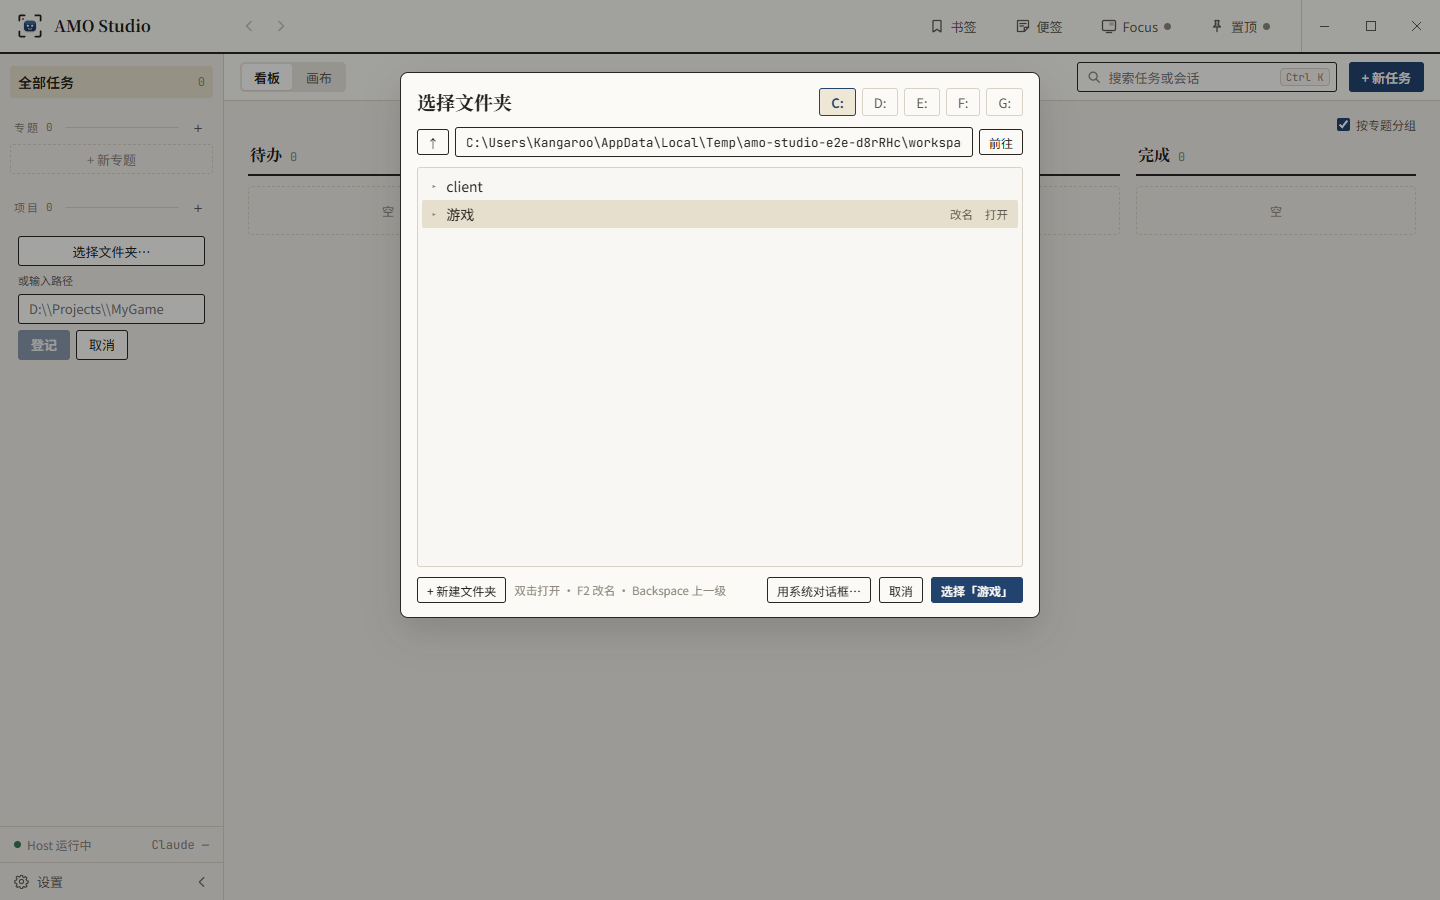
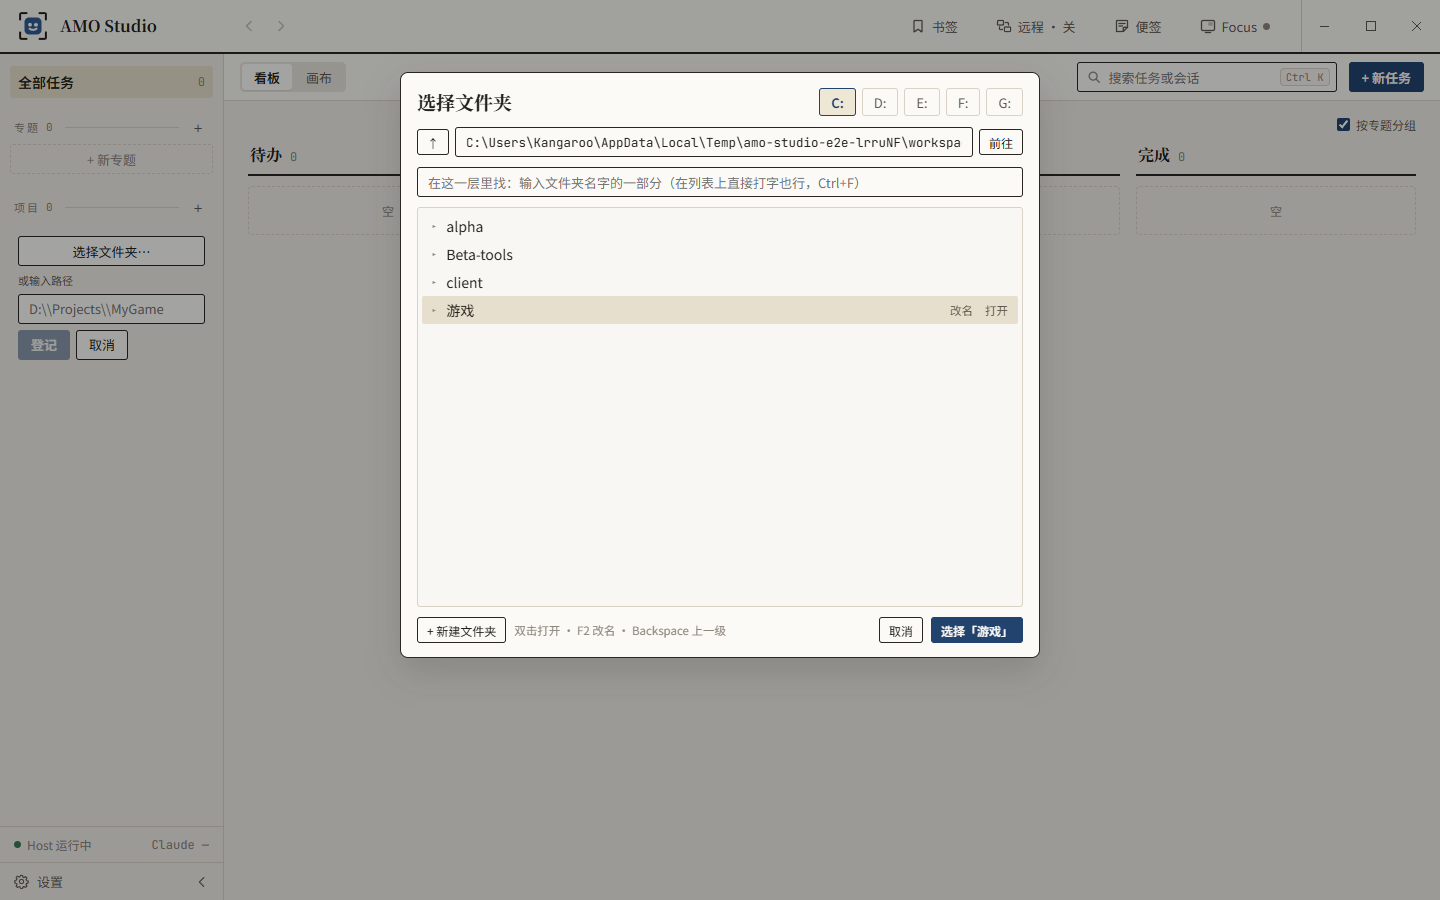
feat(folders): 选择文件夹 finds a folder in the level shown by a part of its name (the user, 2026-11-06: 选择文件夹的窗口加个搜索功能，可以输入文件夹关键词快速找到文件夹，只做当前选中位置的同层级检索就可以)
A 在这一层里找 box under the path: the list keeps the folders of the folder shown whose name holds what is typed (any case), the matched part marked, with "n / total" beside the box; the highlight goes to the first match when the highlighted one drops out, so Enter opens it and ↑ ↓ move within the matches from the box as from the list. Nothing below the level is searched (an empty result says so). Typing a letter on the list, or Ctrl+F, goes to the box; going to another folder or + 新建文件夹 clears it; Esc clears it first and closes the picker only the next time. The hint for typing is in the box's placeholder: in the footer it pushed 选择「…」 onto a second line.

Checked: npm run typecheck; e2e newtask.spec.ts (9 passed; the 默认路径 test now also: a letter on the list goes to the box, 2 / 4, case-insensitive narrowing to Beta-tools marked "tool" and selected, a folder below (client/tools-inner) not found, Enter opens it and clears the box, an empty result's message, Esc clears and keeps the picker open); screenshots studio/folder-picker-search.png and stage-16/S16-A-folder-picker.png looked at

diff --git a/studio/packages/ui/src/folders/FolderPicker.tsx b/studio/packages/ui/src/folders/FolderPicker.tsx
@@ -41,6 +41,20 @@ export function pickDirectory(start?: string | null): Promise<string | null> {
 
 type Edit = { kind: "new"; text: string } | { kind: "rename"; name: string; text: string };
 
+/** A folder's name with the part 在这一层里找 matched marked. */
+function Marked({ name, query }: { name: string; query: string }) {
+  const q = query.trim().toLowerCase();
+  const at = q ? name.toLowerCase().indexOf(q) : -1;
+  if (at < 0) return <>{name}</>;
+  return (
+    <>
+      {name.slice(0, at)}
+      <mark className="folder-match">{name.slice(at, at + q.length)}</mark>
+      {name.slice(at + q.length)}
+    </>
+  );
+}
+
 function unwrap<T>(r: FolderResult<T>): T {
   if (!r.ok) throw new Error(r.error);
   return r.value;
@@ -55,8 +69,12 @@ export function FolderPicker({ start, onDone }: { start: string | null; onDone(p
   const [error, setError] = useState("");
   const [busy, setBusy] = useState(false);
   const [edit, setEdit] = useState<Edit | null>(null);
+  // 在这一层里找 (2026-11-06; the user: 输入文件夹关键词快速找到文件夹，只做当前选中位置的同层级检索): narrows the folders of the
+  // folder shown, by a part of their name, any case; nothing below it is searched. Going to another folder clears it.
+  const [query, setQuery] = useState("");
   const list = useRef<HTMLDivElement>(null);
   const editBox = useRef<HTMLInputElement>(null);
+  const searchBox = useRef<HTMLInputElement>(null);
 
   /** Shows `path`; the folder named `select` in it highlighted. Keeps what was shown when it cannot be read. */
   async function go(path: string, select: string | null = null): Promise<boolean> {
@@ -68,6 +86,7 @@ export function FolderPicker({ start, onDone }: { start: string | null; onDone(p
       setSelected(select);
       setEdit(null);
       setError("");
+      setQuery("");
       return true;
     } catch (err) {
       setError(err instanceof Error ? err.message : String(err));
@@ -105,16 +124,31 @@ export function FolderPicker({ start, onDone }: { start: string | null; onDone(p
   }, [selected]);
 
   const folders = listing?.folders ?? [];
+  const matching = (text: string) => {
+    const q = text.trim().toLowerCase();
+    return q ? folders.filter((f) => f.toLowerCase().includes(q)) : folders;
+  };
+  /** The folders shown: those whose name holds what is typed in 在这一层里找. */
+  const shown = matching(query);
   /** Highlights a folder; a failed 前往 is forgotten then. */
   const select = (name: string) => {
     setSelected(name);
     setError("");
     if (listing) setPathText(listing.path);
   };
+  /** Narrows the list; the highlight goes to the first match when the highlighted folder is no longer shown. */
+  const search = (text: string) => {
+    setQuery(text);
+    const m = matching(text);
+    if (selected && m.includes(selected)) return;
+    if (m[0]) select(m[0]);
+    else setSelected(null);
+  };
   const chosen = listing ? (selected ? inside(listing.path, selected) : listing.path) : null;
 
   function startNew() {
     if (!listing) return;
+    setQuery("");
     let text = "新建文件夹";
     for (let n = 2; folders.some((f) => f.toLowerCase() === text.toLowerCase()); n++) text = `新建文件夹 (${n})`;
     setEdit({ kind: "new", text });
@@ -140,17 +174,33 @@ export function FolderPicker({ start, onDone }: { start: string | null; onDone(p
     list.current?.focus();
   }
 
-  function onListKey(e: React.KeyboardEvent) {
-    if (edit || !listing) return;
-    const i = selected ? folders.indexOf(selected) : -1;
+  /** ↑ ↓ and Enter, from the list or from 在这一层里找. True when it was one of them. */
+  function moveKey(e: React.KeyboardEvent): boolean {
+    if (!listing) return false;
     if (e.key === "ArrowDown" || e.key === "ArrowUp") {
       e.preventDefault();
-      if (!folders.length) return;
-      const next = e.key === "ArrowDown" ? Math.min(i + 1, folders.length - 1) : Math.max(i - 1, 0);
-      select(folders[next]!);
-    } else if (e.key === "Enter" && selected) {
+      if (!shown.length) return true;
+      const i = selected ? shown.indexOf(selected) : -1;
+      const next = e.key === "ArrowDown" ? Math.min(i + 1, shown.length - 1) : Math.max(i - 1, 0);
+      select(shown[next]!);
+      return true;
+    }
+    if (e.key === "Enter" && selected && !e.nativeEvent.isComposing) {
       e.preventDefault();
       void go(inside(listing.path, selected));
+      return true;
+    }
+    return false;
+  }
+
+  function onListKey(e: React.KeyboardEvent) {
+    if (edit || !listing) return;
+    if (moveKey(e)) return;
+    if (e.key.length === 1 && e.key !== " " && !e.ctrlKey && !e.altKey && !e.metaKey) {
+      // Typing on the list starts 在这一层里找 with that letter.
+      e.preventDefault();
+      search(query + e.key);
+      searchBox.current?.focus();
     } else if (e.key === "Backspace" && listing.parent) {
       e.preventDefault();
       const from = listing.path.slice(listing.path.lastIndexOf("\\") + 1);
@@ -202,6 +252,9 @@ export function FolderPicker({ start, onDone }: { start: string | null; onDone(p
         if (e.key === "Escape" && !edit) {
           e.stopPropagation();
           onDone(null);
+        } else if (e.key.toLowerCase() === "f" && e.ctrlKey && !edit) {
+          e.preventDefault();
+          searchBox.current?.select();
         }
       }}
     >
@@ -238,9 +291,37 @@ export function FolderPicker({ start, onDone }: { start: string | null; onDone(p
             前往
           </button>
         </form>
+        <div className="folder-search">
+          <input
+            ref={searchBox}
+            className="field"
+            type="search"
+            value={query}
+            aria-label="在这一层里找"
+            placeholder="在这一层里找：输入文件夹名字的一部分（在列表上直接打字也行，Ctrl+F）"
+            spellCheck={false}
+            disabled={!listing || !!edit}
+            data-testid="folder-search"
+            onChange={(e) => search(e.target.value)}
+            onKeyDown={(e) => {
+              if (moveKey(e)) return;
+              if (e.key === "Escape" && query) {
+                // The first Esc clears what was typed; the next one closes the picker.
+                e.preventDefault();
+                e.stopPropagation();
+                search("");
+              }
+            }}
+          />
+          {query.trim() && (
+            <span className="folder-search-count" data-testid="folder-search-count">
+              {shown.length} / {folders.length}
+            </span>
+          )}
+        </div>
         <div className="folder-list" role="listbox" aria-label="文件夹" tabIndex={0} ref={list} onKeyDown={onListKey}>
           {edit?.kind === "new" && editRow}
-          {folders.map((name) =>
+          {shown.map((name) =>
             edit?.kind === "rename" && edit.name === name ? (
               <div key={name}>{editRow}</div>
             ) : (
@@ -257,7 +338,9 @@ export function FolderPicker({ start, onDone }: { start: string | null; onDone(p
                 <span className="folder-icon" aria-hidden>
                   ▸
                 </span>
-                <span className="folder-name">{name}</span>
+                <span className="folder-name">
+                  <Marked name={name} query={query} />
+                </span>
                 <button
                   type="button"
                   className="folder-action"
@@ -283,6 +366,9 @@ export function FolderPicker({ start, onDone }: { start: string | null; onDone(p
             ),
           )}
           {listing && !folders.length && edit?.kind !== "new" && <div className="folder-empty">这里没有文件夹</div>}
+          {listing && folders.length > 0 && !shown.length && edit?.kind !== "new" && (
+            <div className="folder-empty">这一层没有名字含「{query.trim()}」的文件夹（不找更深的层）</div>
+          )}
           {!listing && !error && <div className="folder-empty">正在读取…</div>}
         </div>
         {error && (

diff --git a/studio/e2e/studio/newtask.spec.ts b/studio/e2e/studio/newtask.spec.ts
@@ -374,6 +374,37 @@ test("设置 → 默认路径: 选择文件夹 starts there when adding a projec
   await picker.getByRole("textbox", { name: "路径" }).fill("\\\\nas.example\\share");
   await picker.getByRole("textbox", { name: "路径" }).press("Enter");
   await expect(picker.getByRole("alert")).toContainText("网络路径");
+
+  // 在这一层里找 (2026-11-06): typing narrows the folders of the folder shown by a part of their name, any case; the
+  // folders below them are not searched; going into one clears it; Esc clears it before it closes the picker.
+  for (const d of ["Beta-tools", "alpha", join("client", "tools-inner")]) mkdirSync(join(root, d));
+  await picker.getByRole("textbox", { name: "路径" }).fill(root);
+  await picker.getByRole("textbox", { name: "路径" }).press("Enter");
+  await expect(picker.getByRole("option")).toHaveCount(4);
+  const search = picker.getByRole("searchbox", { name: "在这一层里找" });
+  await picker.getByRole("listbox", { name: "文件夹" }).press("t");
+  await expect(search).toBeFocused();
+  await expect(search).toHaveValue("t");
+  await expect(picker.getByRole("option")).toHaveCount(2);
+  await expect(picker.getByTestId("folder-search-count")).toHaveText("2 / 4");
+  await search.pressSequentially("OOL");
+  await expect(picker.getByRole("option")).toHaveCount(1);
+  await expect(picker.getByRole("option", { name: "Beta-tools" })).toHaveAttribute("aria-selected", "true");
+  await expect(picker.locator(".folder-match")).toHaveText("tool");
+  await expect(picker.getByRole("button", { name: "选择「Beta-tools」" })).toBeVisible();
+  await screenshot(studio.app, "studio", "folder-picker-search", page);
+  await search.press("Enter");
+  await expect(picker.getByRole("textbox", { name: "路径" })).toHaveValue(join(root, "Beta-tools"));
+  await expect(search).toHaveValue("");
+  await picker.getByRole("button", { name: "上一级" }).click();
+  await expect(picker.getByRole("option")).toHaveCount(4);
+  await search.fill("没有这个");
+  await expect(picker.getByRole("listbox", { name: "文件夹" })).toContainText("这一层没有名字含「没有这个」的文件夹");
+  await search.press("Escape");
+  await expect(search).toHaveValue("");
+  await expect(picker.getByRole("option")).toHaveCount(4);
+  await expect(picker).toBeVisible();
+
   await picker.getByRole("option", { name: "游戏" }).click();
   await screenshot(studio.app, "stage-16", "S16-A-folder-picker", page);
   await picker.getByRole("button", { name: "选择「游戏」" }).click();

diff --git a/studio/packages/ui/src/folders/folders.css b/studio/packages/ui/src/folders/folders.css
@@ -8,6 +8,10 @@
 .folder-drives { display: flex; gap: 6px; flex-wrap: wrap; margin-left: auto; }
 .folder-path { display: flex; gap: 6px; align-items: center; }
 .folder-path .field { flex: 1; min-width: 0; font-family: var(--font-code); font-size: 12.5px; }
+.folder-search { display: flex; gap: 8px; align-items: center; }
+.folder-search .field { flex: 1; min-width: 0; }
+.folder-search-count { flex: none; color: var(--text-faint); font-size: 11.5px; font-variant-numeric: tabular-nums; }
+.folder-match { padding: 0; border-radius: 2px; background: color-mix(in srgb, var(--attention) 30%, transparent); color: inherit; }
 .folder-list {
   height: min(48vh, 400px); overflow-y: auto; padding: 4px; border: 1px solid var(--border); border-radius: var(--r-m); background: var(--bg-header); outline: none;
 }

diff --git a/studio/packages/app/CHANGELOG.md b/studio/packages/app/CHANGELOG.md
@@ -4,6 +4,8 @@
 
 ## 下一版
 
+- 「选择文件夹」窗口加了「在这一层里找」：输入文件夹名字的一部分（不分大小写），列表只留名字里含它的文件夹，匹配的字标出来，第一个自动选中，回车打开、↑↓ 换选。只找当前显示的这一层，不往下层找。在列表上直接打字、或按 Ctrl+F 也会进到搜索框；进了别的文件夹搜索就清空；Esc 先清空搜索，再按一次才关窗口。
+
 ## 0.9.46（2026-11-06）
 
 - 查看器（和查看包）里看 HTML 或 Markdown 时，点里面的图片（或指向图片的链接）不再把整页换成这张图：图片在页面上方放大显示，滚轮缩放、放大后可以拖动，Esc、点旁边或 × 关掉就回到原来的页面。上方有「在查看器中打开」和「在资源管理器中显示」。
